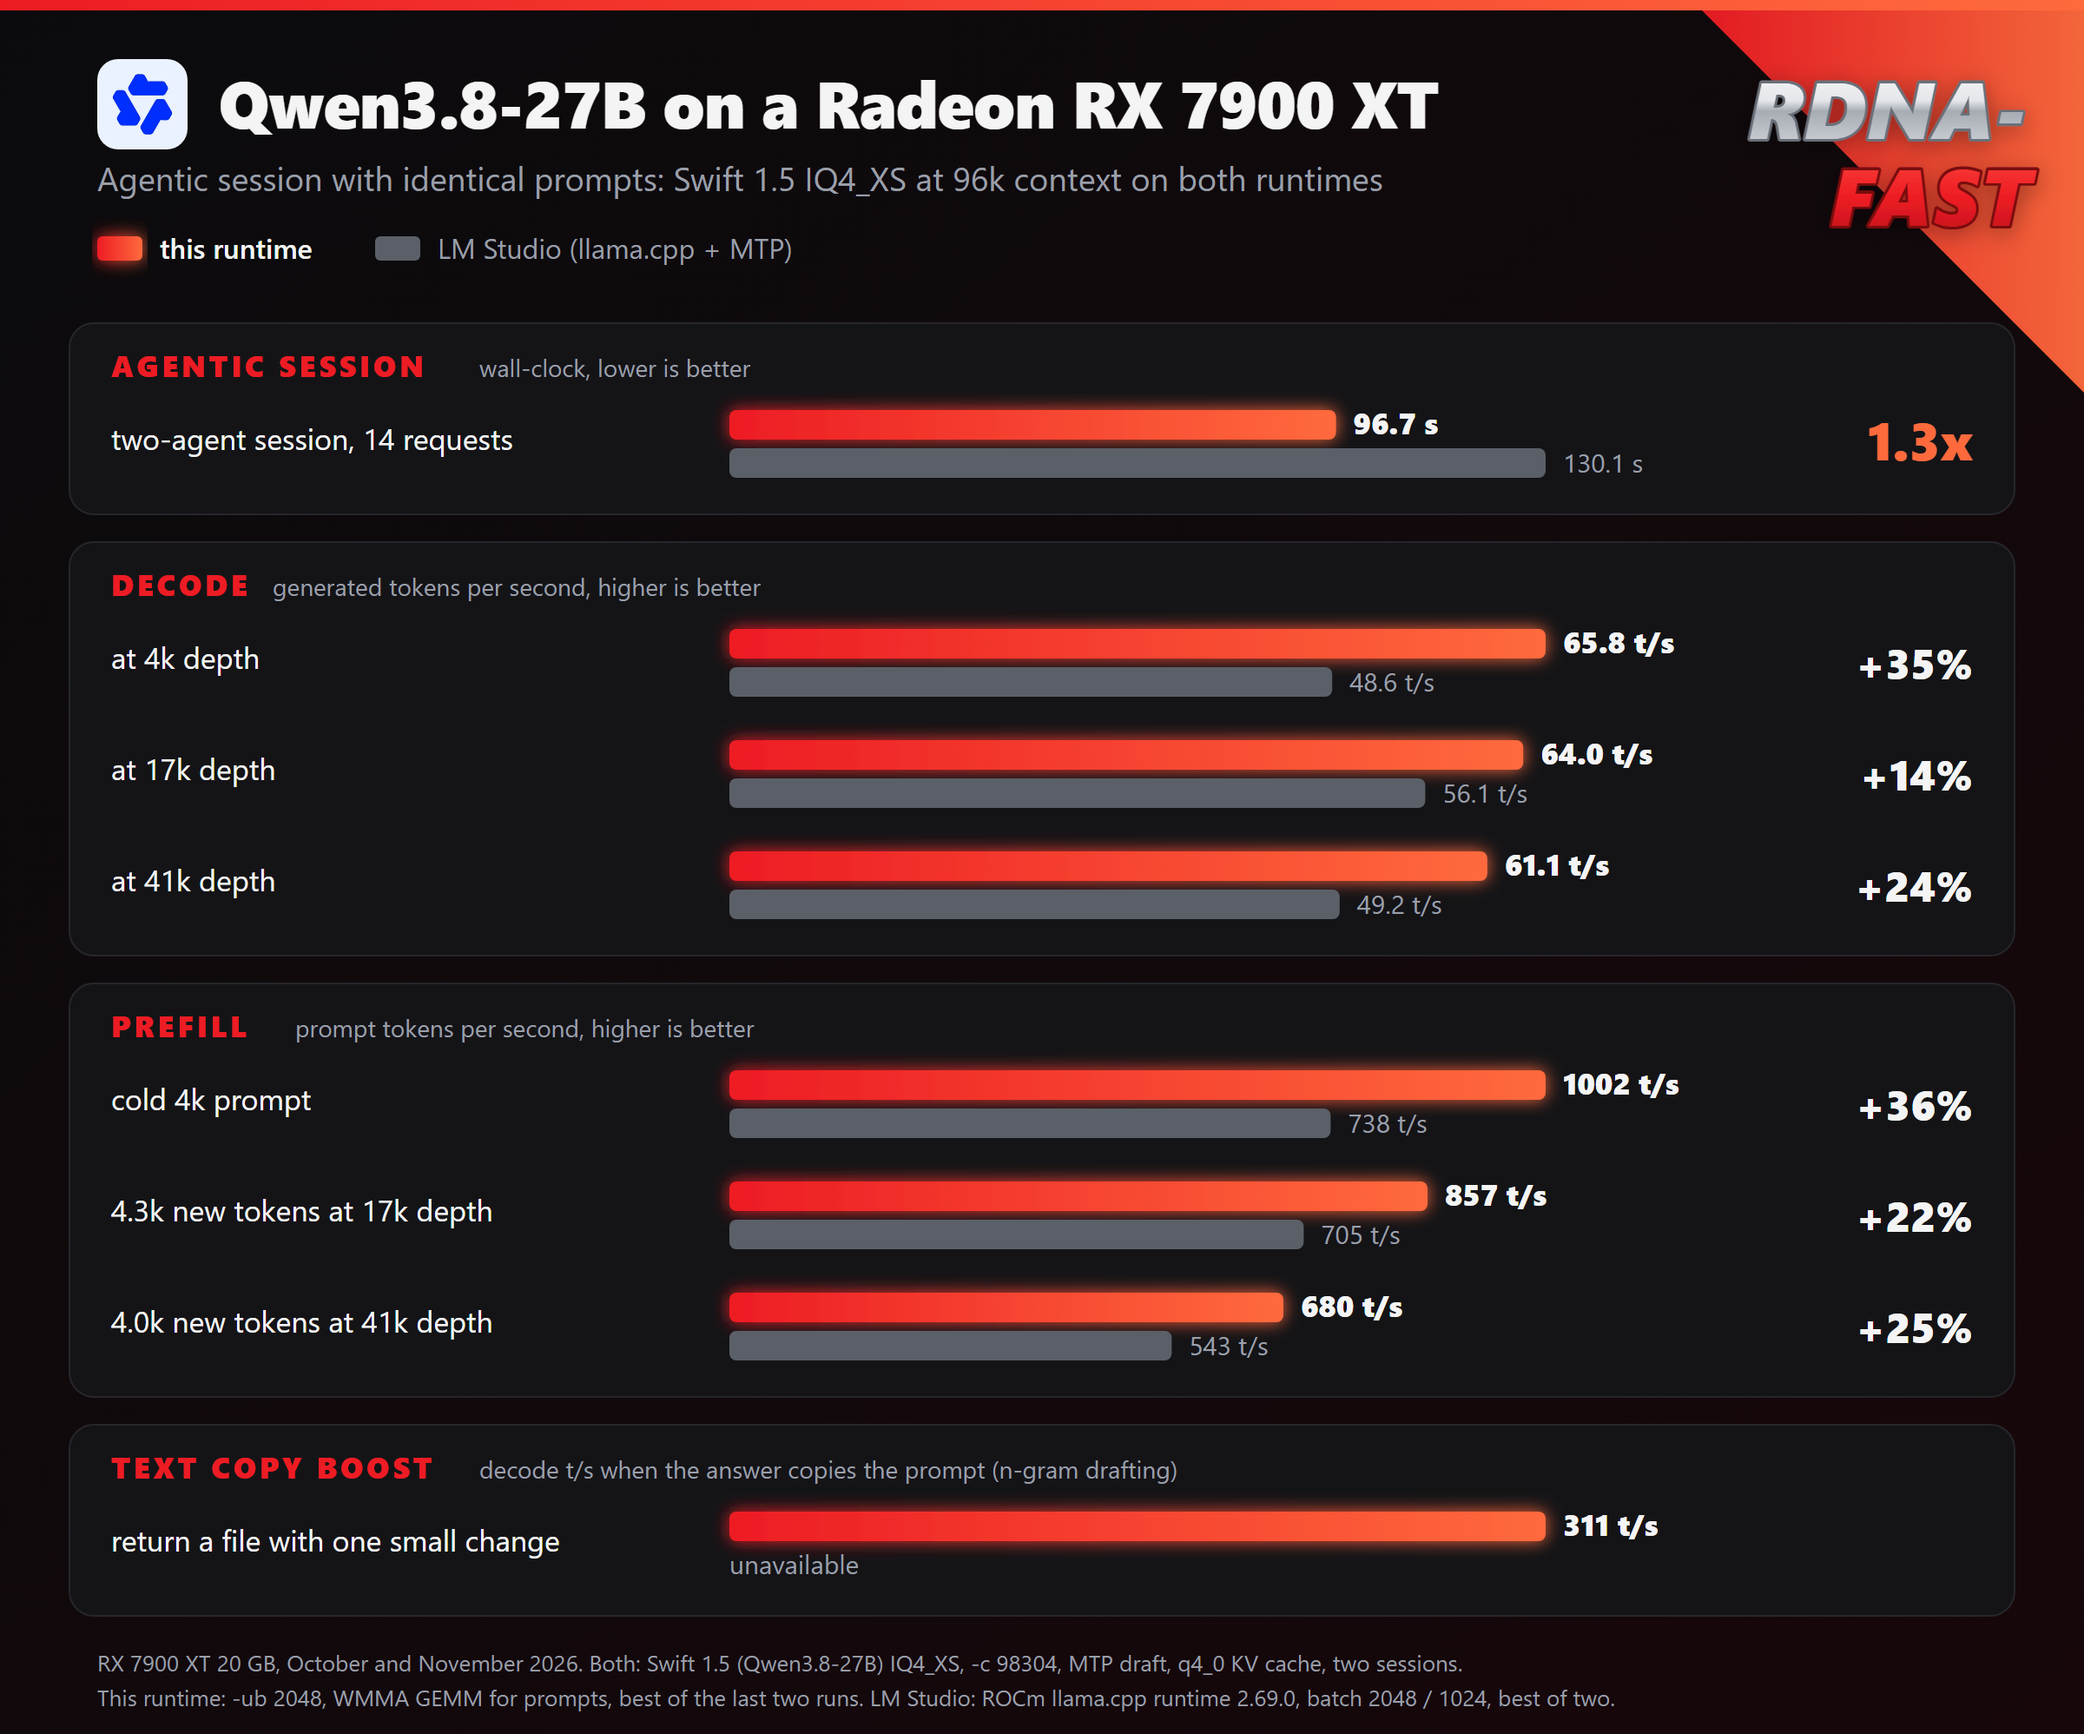
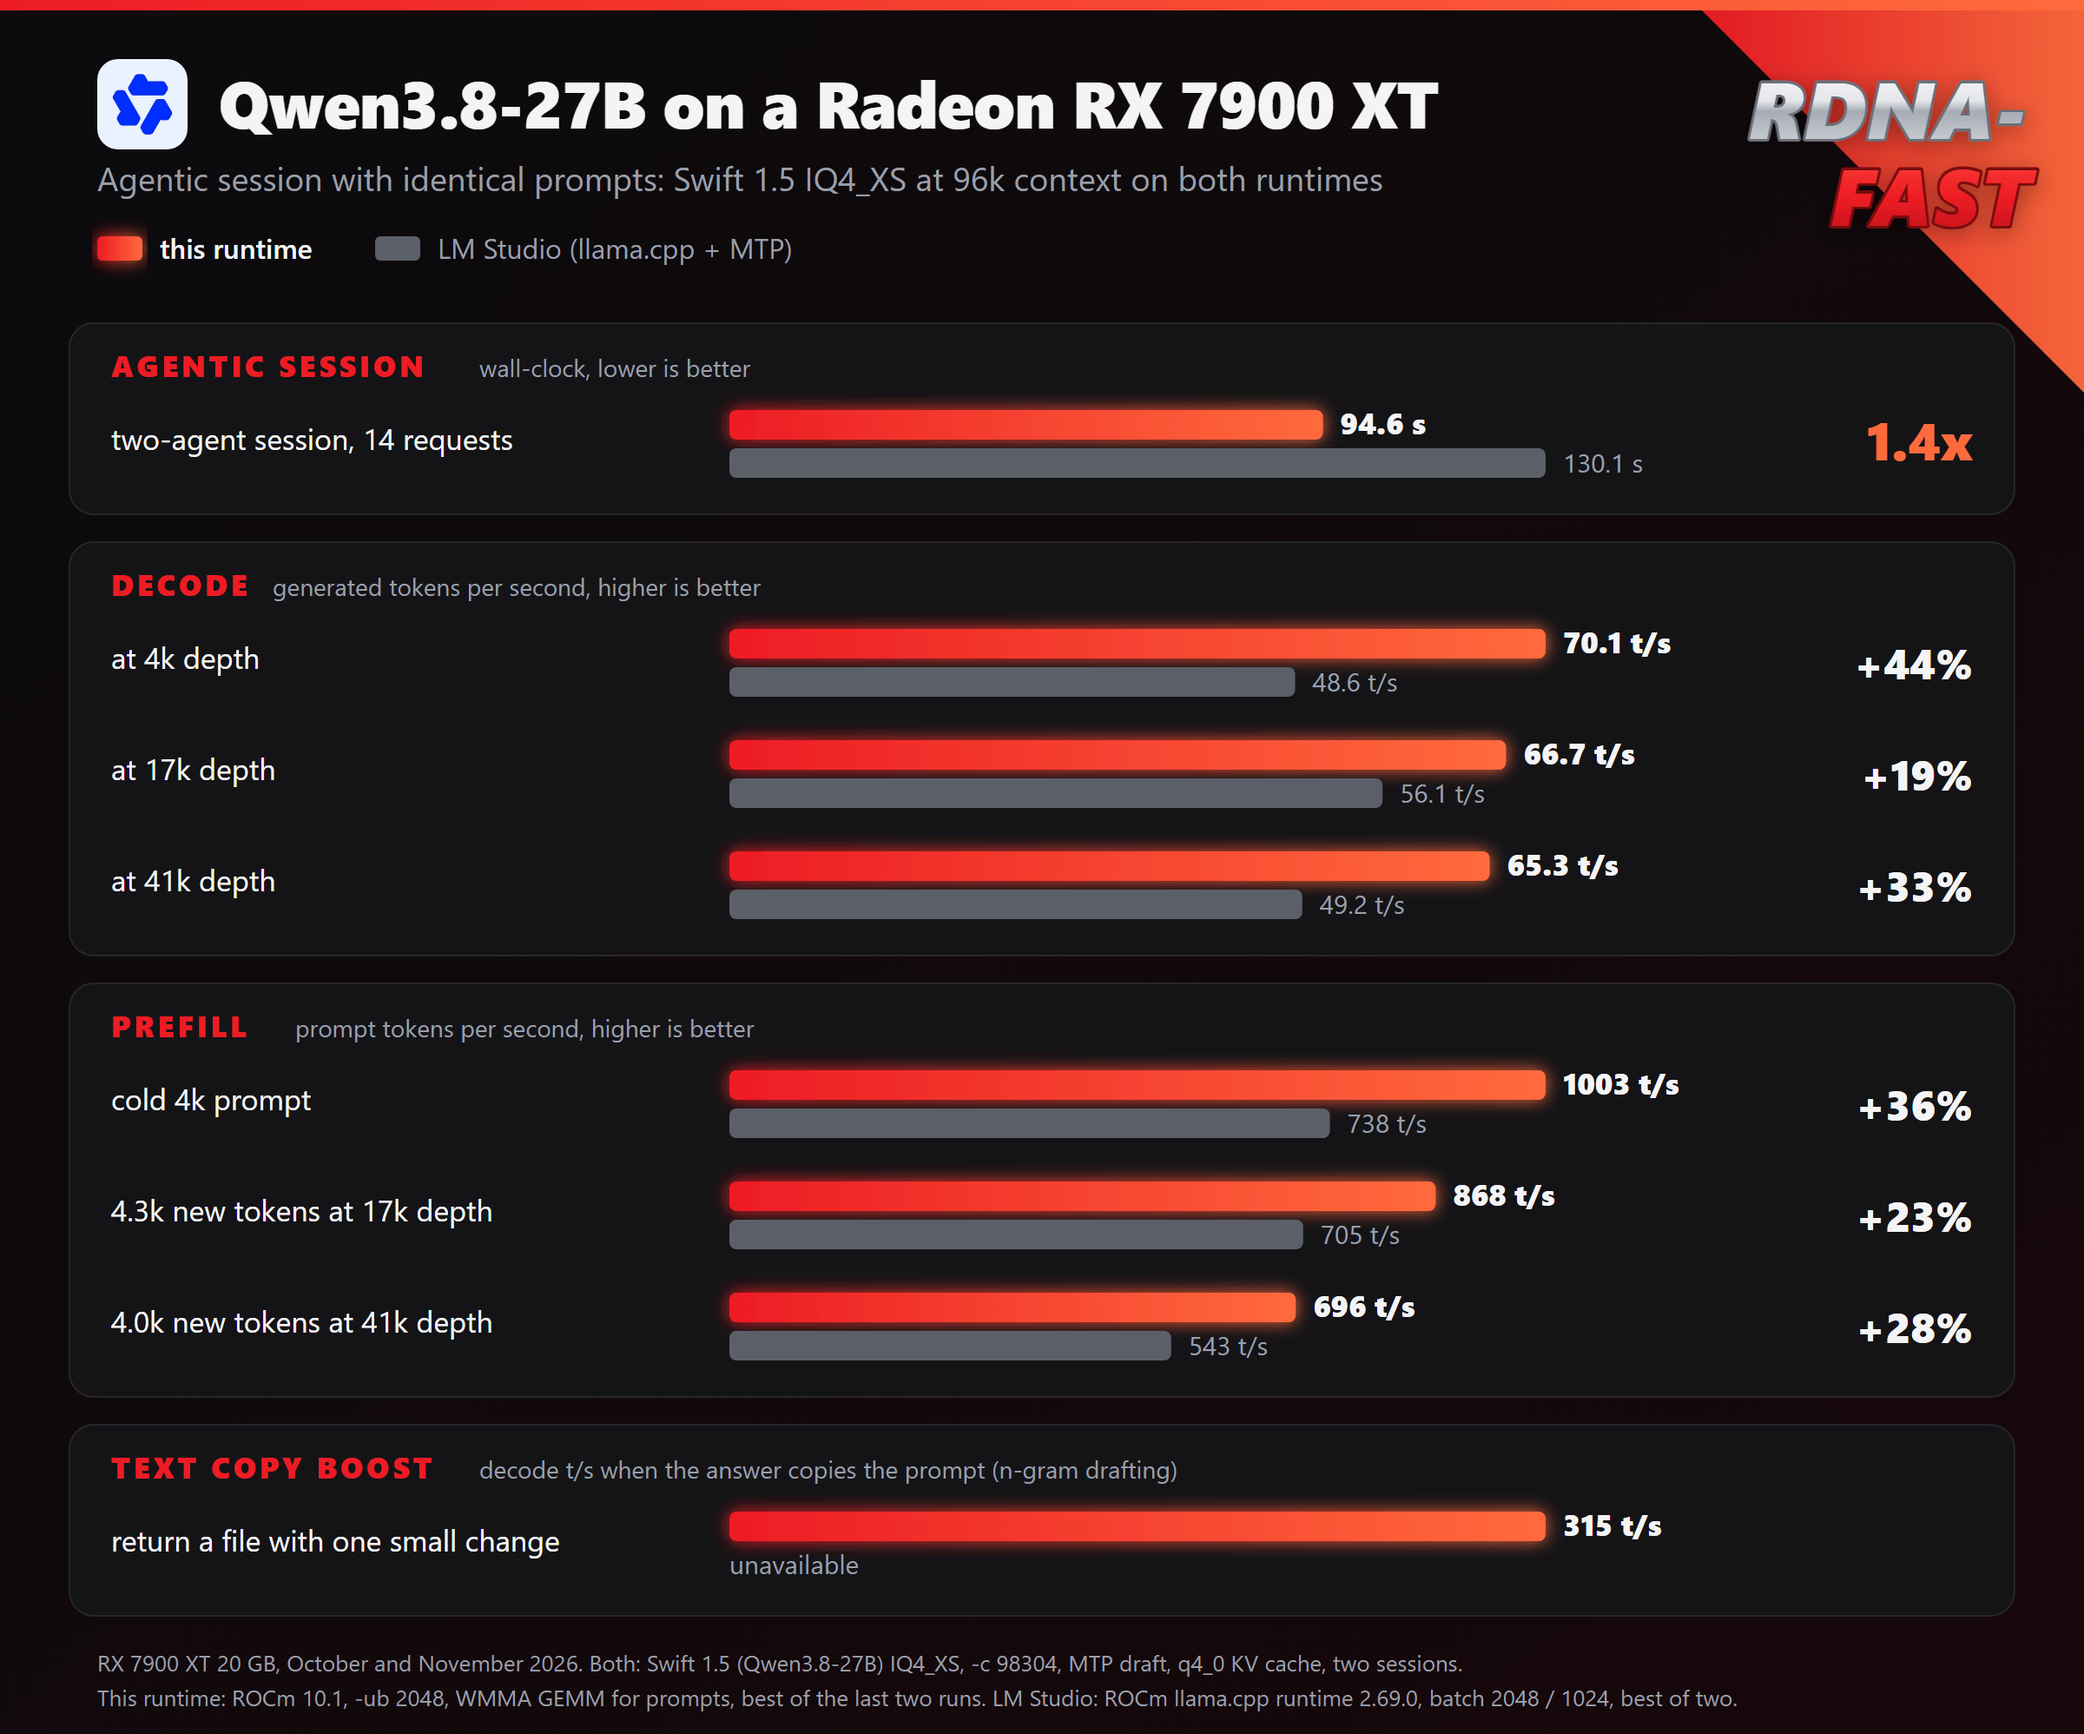
README: ROCm 10.1 numbers, "Leveraging ROCm 10 for maximum performance"
The speed table, the IQ4_XS quant row, the decode peaks and the cold
prompts are now the best of the last two runs on ROCm 10.1, with this
release's clang 24 fixes (5 November, prod settings, interleaved with two
runs of the ROCm 7.2 build):

- session 96.7 -> 94.6 s against LM Studio's 130.1 s (1.4x);
- decode 70.1 / 66.7 / 65.3 t/s at 4k / 17k / 41k;
- prefill 1,003 / 868 / 696 t/s;
- text copy boost 315 t/s;
- cold prompts 964 / 866 / 760 t/s.

The decode at depth after a cold prompt is lower this time (54.4 / 49.0 /
49.4, MTP acceptance at temperature 1). media/speed-vs-lmstudio.svg/png
show the same values. The first highlight now leads with "Leveraging ROCm
10 for maximum performance". The note under the machine says which tables
are ROCm 10.1 and which are still ROCm 7.2.

diff --git a/README.md b/README.md
@@ -13,13 +13,13 @@ formats) and [llama.cpp](https://github.com/ggml-org/llama.cpp).
 
 ## Highlights
 
-- **Faster agent loops than LM Studio on the same card.** With the same model,
-  quant and context, a scripted two-agent session finishes in 97 s instead of
-  130 s. [Numbers](#speed)
+- **Faster agent loops than LM Studio on the same card.** Leveraging ROCm 10
+  for maximum performance. With the same model, quant and context, a scripted
+  two-agent session finishes in 95 s instead of 130 s. [Numbers](#speed)
 
 - **Multi-token prediction.** The model's own MTP head drafts tokens ahead: up
-  to 59 t/s on prose and 94 t/s on code. When an answer repeats text from the
-  prompt, as code edits do, n-gram drafting copies it at up to 311 t/s.
+  to 60 t/s on prose and 96 t/s on code. When an answer repeats text from the
+  prompt, as code edits do, n-gram drafting copies it at up to 315 t/s.
 
 - **Prompts on the matrix cores.** Prompt processing runs on RDNA3's WMMA units
   through [rocm_wmma_gemm](https://github.com/adelj88/rocm_wmma_gemm) by Adel
@@ -54,7 +54,9 @@ formats) and [llama.cpp](https://github.com/ggml-org/llama.cpp).
 
 Measured on one machine: RX 7900 XT 20 GB, Ryzen 9 7900, 32 GB RAM,
 Windows 11, ROCm 10.1, one NVMe for models and cache. Nothing here has
-been measured on an XTX. The tables below were measured with ROCm 7.2.
+been measured on an XTX. The first speed table, the IQ4_XS row and the decode
+and cold-prompt tables below were measured with ROCm 10.1, the rest with ROCm
+7.2.
 
 ## Speed
 
@@ -66,19 +68,20 @@ grows from 4k to 41k tokens, a 10k-token worker is called twice in between):
 
 | | LM Studio + MTP draft | this runtime |
 |---|---:|---:|
-| **the session, wall-clock** | **130 s** | **97 s** |
-| prefill t/s, cold 4k prompt | 738 | 1,002 |
-| prefill t/s, 4.3k new tokens at 17k depth | 705 | 857 |
-| prefill t/s, 4.0k new tokens at 41k depth | 543 | 680 |
-| decode t/s at 4k depth | 48.6 | 65.8 |
-| decode t/s at 17k depth | 56.1 | 64.0 |
-| decode t/s at 41k depth | 49.2 | 61.1 |
-| decode t/s, text copy boost: code edit that copies the prompt | unavailable | 311 |
+| **the session, wall-clock** | **130 s** | **95 s** |
+| prefill t/s, cold 4k prompt | 738 | 1,003 |
+| prefill t/s, 4.3k new tokens at 17k depth | 705 | 868 |
+| prefill t/s, 4.0k new tokens at 41k depth | 543 | 696 |
+| decode t/s at 4k depth | 48.6 | 70.1 |
+| decode t/s at 17k depth | 56.1 | 66.7 |
+| decode t/s at 41k depth | 49.2 | 65.3 |
+| decode t/s, text copy boost: code edit that copies the prompt | unavailable | 315 |
 
 <sub>October and November 2026. Both run Swift 1.5 IQ4_XS at `-c 98304` with MTP drafting,
 flash attention, a q4_0 KV cache and two sessions, the best run for each value
 (LM Studio: two runs, this runtime: the last two). LM Studio is its ROCm llama.cpp
-runtime 2.69.0 with batch 2048 / 1024; this runtime runs the quick start below.
+runtime 2.69.0 with batch 2048 / 1024; this runtime runs the quick start below
+on ROCm 10.1.
 The edit row is the text copy boost, n-gram drafting, the best of the six edits in those runs;
 LM Studio cannot run it, as its API does not switch Swift 1.5's thinking
 off.</sub>
@@ -89,7 +92,7 @@ The same session with each quant we tested:
 |---|---:|---:|---:|---:|---:|---:|
 | [Q4_K_M](https://huggingface.co/ukisai/Swift-1.5-Qwen3.8-27B-GGUF/blob/main/Swift-1.5-Qwen3.8-27B-Q4_K_M.gguf)\* | 17.4 GB | 146.8 s | 1,211 s (spill) | 408 / 548 / 431 | 50.6 / 50.8 / 48.2 | 238 |
 | [Q4_K_S](https://huggingface.co/ukisai/Swift-1.5-Qwen3.8-27B-GGUF/blob/main/Swift-1.5-Qwen3.8-27B-Q4_K_S.gguf) | 16.4 GB | 112.6 s | 1,139 s (spill) | 889 / 769 / 616 | 49.2 / 51.7 / 48.8 | 247 |
-| [IQ4_XS](https://huggingface.co/ukisai/Swift-1.5-Qwen3.8-27B-GGUF/blob/main/Swift-1.5-Qwen3.8-27B-IQ4_XS.gguf) | 15.5 GB | 96.7 s | 130.1 s | 1,002 / 857 / 680 | 65.8 / 64.0 / 61.1 | 311 |
+| [IQ4_XS](https://huggingface.co/ukisai/Swift-1.5-Qwen3.8-27B-GGUF/blob/main/Swift-1.5-Qwen3.8-27B-IQ4_XS.gguf) | 15.5 GB | 94.6 s | 130.1 s | 1,003 / 868 / 696 | 70.1 / 66.7 / 65.3 | 315 |
 | [ROCmFP4-FP6](docs/rocmfpx/swift-1.5-qwen3.8-27b-rocmfp4-fp6.md) | 16.1 GB | 104.5 s | | 923 / 798 / 634 | 60.2 / 56.4 / 58.5 | 243 |
 
 <sub>\* At 64k (`-c 65536`) and `-ub 512`: the smaller context and prompt
@@ -105,8 +108,8 @@ Decode, 450-token answers at temperature 1, the best of the last two runs
 
 | decode t/s | peak |
 |---|---:|
-| prose | 59.3 |
-| code | 93.6 |
+| prose | 59.8 |
+| code | 95.8 |
 | without MTP, prose or code | 36.8 |
 
 Cold prompts, each followed by a 300-token answer at that depth, the best of
@@ -114,8 +117,8 @@ the last two runs:
 
 | | 17k | 41k | 69k |
 |---|---:|---:|---:|
-| prefill t/s, average over the prompt | 955 | 854 | 743 |
-| decode t/s at that depth | 57.5 | 51.4 | 45.9 |
+| prefill t/s, average over the prompt | 964 | 866 | 760 |
+| decode t/s at that depth | 54.4 | 49.0 | 49.4 |
 
 ## Quick start
 
@@ -138,8 +141,7 @@ are in this repository.
 Windows as a tarball, without an installer:
 `therock-dist-windows-gfx110X-all-10.1.0.tar.gz` for RDNA3, `gfx120X-all` for
 RDNA4, `gfx1151` for Strix Halo ([AMD's install guide](https://rocm.docs.amd.com/en/latest/install/rocm.html)).
-Unpack it anywhere; nothing is set system-wide, and the HIP runtime itself comes
-with the AMD driver.
+Unpack it anywhere; nothing is set system-wide.
 
 ```
 curl -L -o therock.tar.gz https://stable.repo.amd.com/rocm/core/tarball/therock-dist-windows-gfx110X-all-10.1.0.tar.gz
@@ -163,10 +165,12 @@ cmake --build build-hip --target llama-server -j 12
 ```
 
 ROCm 10.1 brings no resource compiler, so CMake takes the Windows SDK's
-`rc.exe` (use the SDK version folder you have, with forward slashes). The UI
-build needs Node.js (npm); it embeds the RDNA-FAST web UI with its live
-status page at `http://127.0.0.1:<port>/#/status`. Without Node.js, use
-`-DLLAMA_BUILD_UI=OFF`.
+`rc.exe` (use the SDK version folder you have, with forward slashes). The build
+copies ROCm's HIP runtime (`amdhip64_7.dll`, `amd_comgr.dll`, `rocm_kpack.dll`)
+next to `llama-server.exe`: Windows would otherwise load the AMD driver's older
+runtime, on which ROCm 10.1's rocBLAS fails. The UI build needs Node.js (npm);
+it embeds the RDNA-FAST web UI with its live status page at
+`http://127.0.0.1:<port>/#/status`. Without Node.js, use `-DLLAMA_BUILD_UI=OFF`.
 
 **3. Run:**
 
@@ -207,7 +211,7 @@ otherwise.
 | `-b 2048 -ub 2048` | prompts in batches of 2048 tokens | prompts 3-4% faster than at 1024. It fits since [rollback by replay](#rollback-by-replay). 1536 is slower, as the WMMA GEMM is tuned for 1024 and 2048 rows; below 512 the WMMA GEMM never runs |
 | `--no-mmproj-offload` | the 0.9 GB vision projector runs on the CPU | VRAM for context at two slots. Images take 7-12 s to the first token instead of 3-5 s. The BF16 projector encodes 8% faster than f16 on CPUs with AVX-512 BF16 (Ryzen 7000 and newer) |
 | `--spec-type draft-mtp`, `--spec-draft-n-max 4 --spec-draft-p-min 0.60` | the model's own MTP head drafts up to 4 tokens per pass | models that ship an MTP head (Qwen3.5/3.6/3.8): decode +45% on prose, +112% on code, for ~0.7 GB of VRAM and 3% of prefill speed |
-| `--spec-type "...,ngram-map-k4v"` | text copy boost: where the last tokens repeat an earlier place in the context, the continuation found there is drafted, up to 48 tokens once six 4-token probes in a row would have been accepted | answers that copy the prompt, such as code edits and quoted files: up to 311 t/s. On two days of agent traffic it saved 4.6-6.0% of decode time. Quote the value in a .cmd file, as cmd splits arguments at commas |
+| `--spec-type "...,ngram-map-k4v"` | text copy boost: where the last tokens repeat an earlier place in the context, the continuation found there is drafted, up to 48 tokens once six 4-token probes in a row would have been accepted | answers that copy the prompt, such as code edits and quoted files: up to 315 t/s. On two days of agent traffic it saved 4.6-6.0% of decode time. Quote the value in a .cmd file, as cmd splits arguments at commas |
 | `--ctx-checkpoints 8 --checkpoint-min-step 2048` | up to 8 checkpoints of the model state per slot (~200 MiB each, host RAM), at least 2048 tokens apart. When the list is full, the one whose removal leaves the smallest gap goes; the one at the first user message stays | hybrid models such as Qwen3.8, whose recurrent layers cannot roll back: a prompt that changes late resumes from the nearest checkpoint instead of from scratch |
 | `--cache-ram 0 --cache-disk PATH --cache-disk-limit 65536 --cache-disk-checkpoints 4` | conversations and their checkpoints go to SSD (64 GB limit, 4 checkpoints per entry) instead of RAM | more agents than slots, and restarts. [More](#the-ssd-prompt-cache) |
 | `--load-mode dio` | reads the model with direct I/O instead of memory-mapping it | keeps the 15 GB model file out of system RAM |
